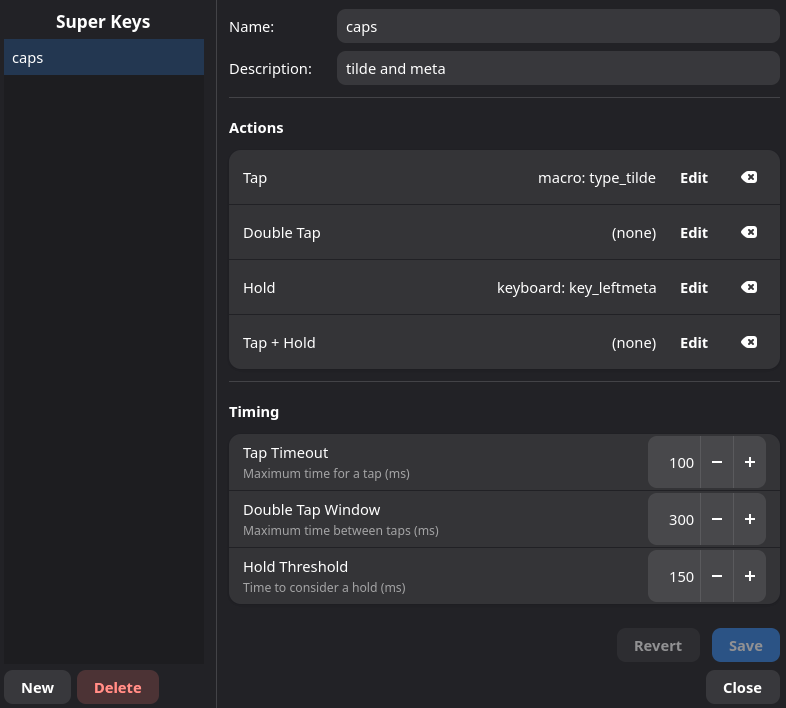
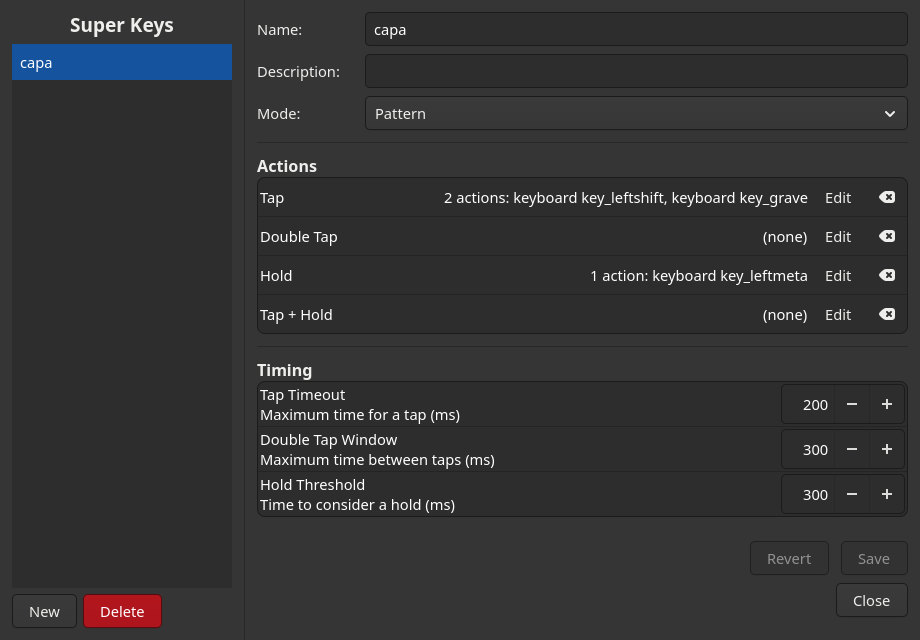
Expand superkey action labels in selection preview
- Show fuller superkey action descriptions in pattern mode
- Refresh the selected-state screenshot

diff --git a/keyforge/gui/widgets/superkey_dialog.py b/keyforge/gui/widgets/superkey_dialog.py
@@ -666,7 +666,17 @@ class SuperkeyDialog(Adw.Dialog):
             return "(none)"
 
         if row_mode == "pattern":
-            labels = [self._describe_pattern_action(action) for action in actions[:2]]
+            labels = [
+                _describe_pattern_superkey_action(
+                    action,
+                    exec_limit=20,
+                    exec_prefix="exec ",
+                    macro_prefix="macro ",
+                    target_separator=" ",
+                    title_case_target_type=False,
+                )
+                for action in actions[:2]
+            ]
         else:
             labels = [
                 describe_mapping_action_verbose(action)
